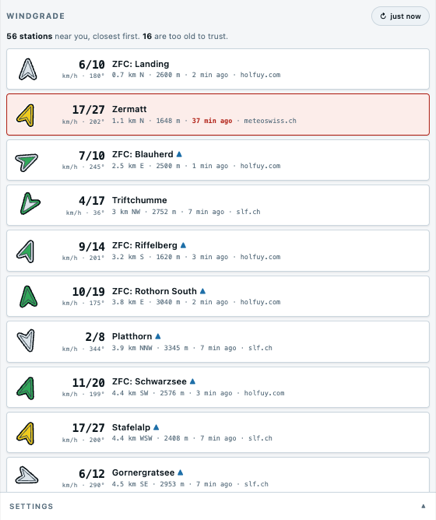
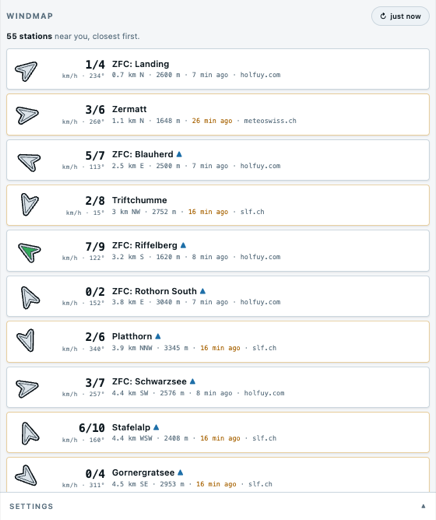
Use the full product name on the Windmap card
The app now calls itself XCTrack Windmap in its title and manifest, and
the card is a formal identification — the first thing a stranger reads.
The thumbnail is refreshed from the same pinned light-theme capture the
preview cards use, so the hub and the chat previews cannot drift apart.

diff --git a/index.html b/index.html
@@ -183,7 +183,7 @@ a{color:var(--blue)}
         <path d="M0,-11.75 L9,11.75 L0,4.75 L-9,11.75 Z" fill="#EFCB1F" stroke="#3A4750" stroke-width="1"/>
       </g>
     </svg>
-    <div class="nm">Windmap</div>
+    <div class="nm">XCTrack Windmap</div>
     <div class="go">Open &rarr;</div>
   </div>
   <p class="ds">
